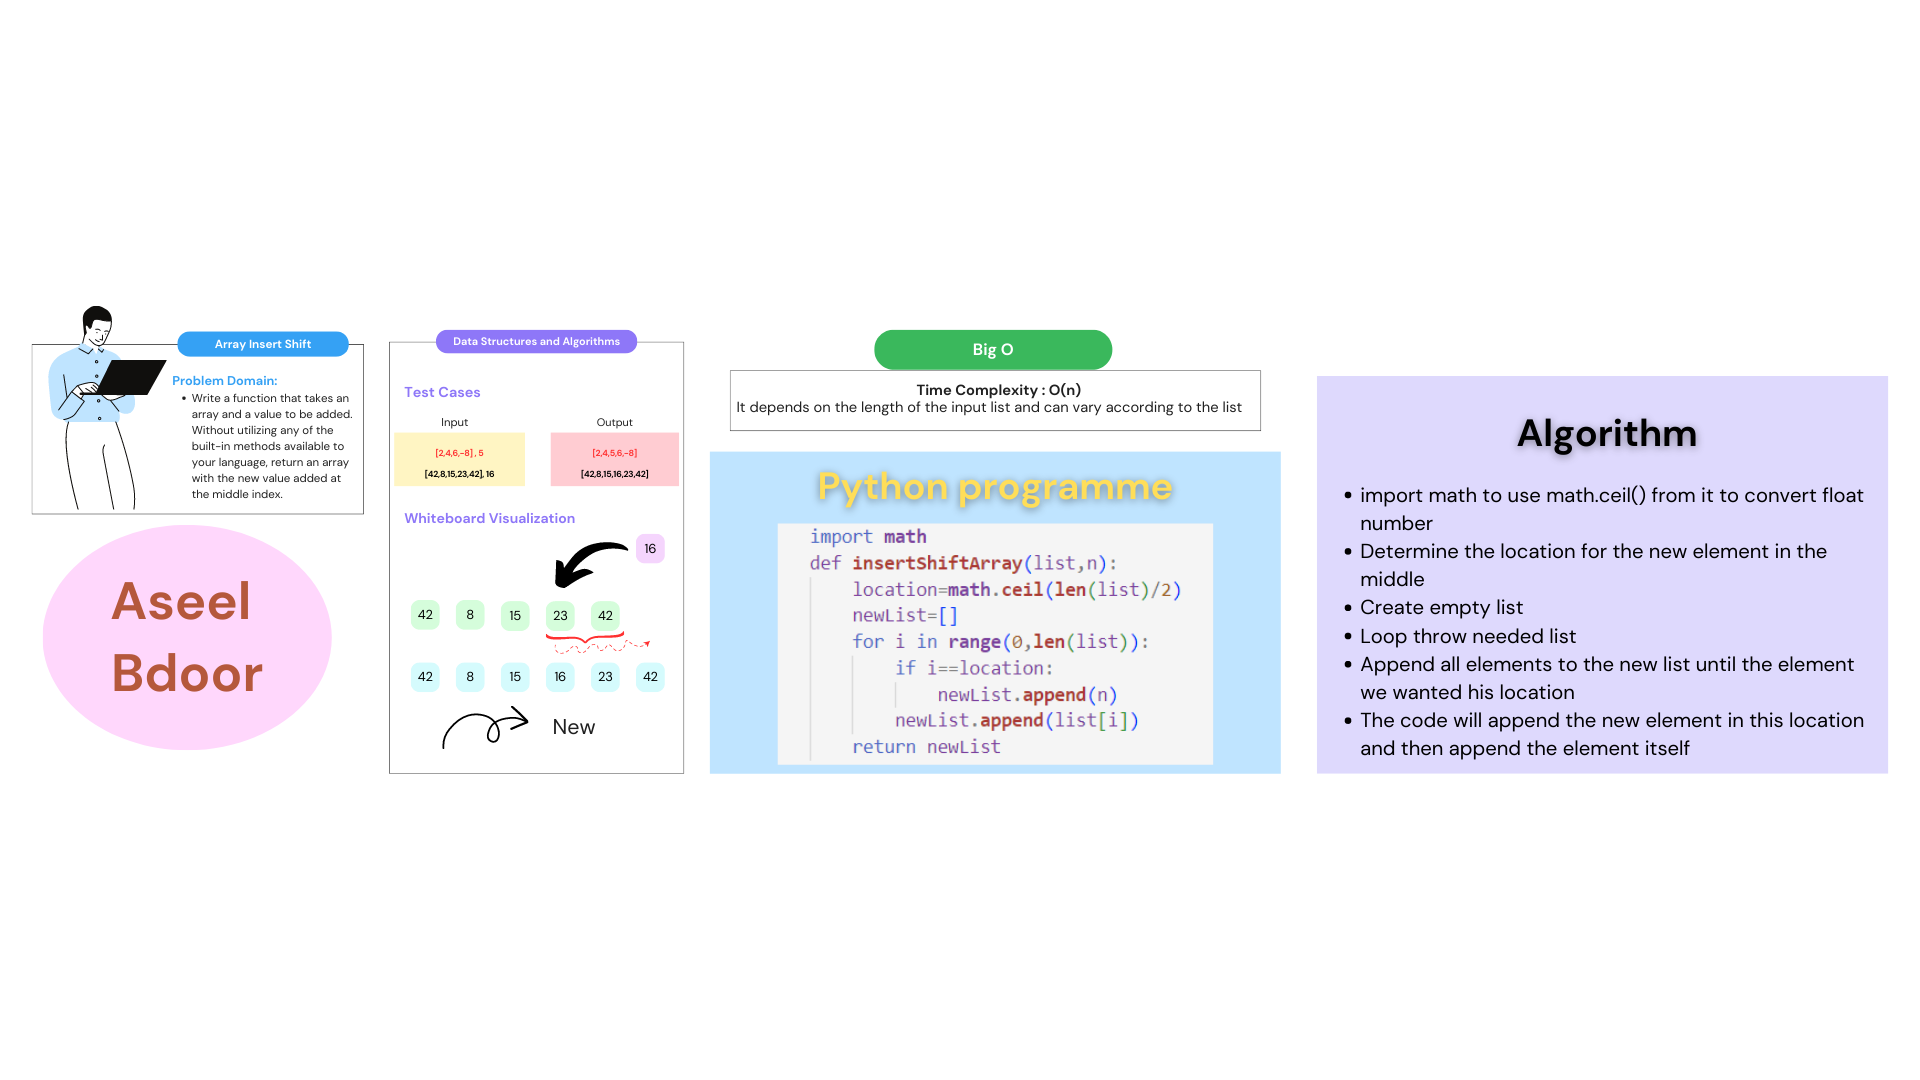
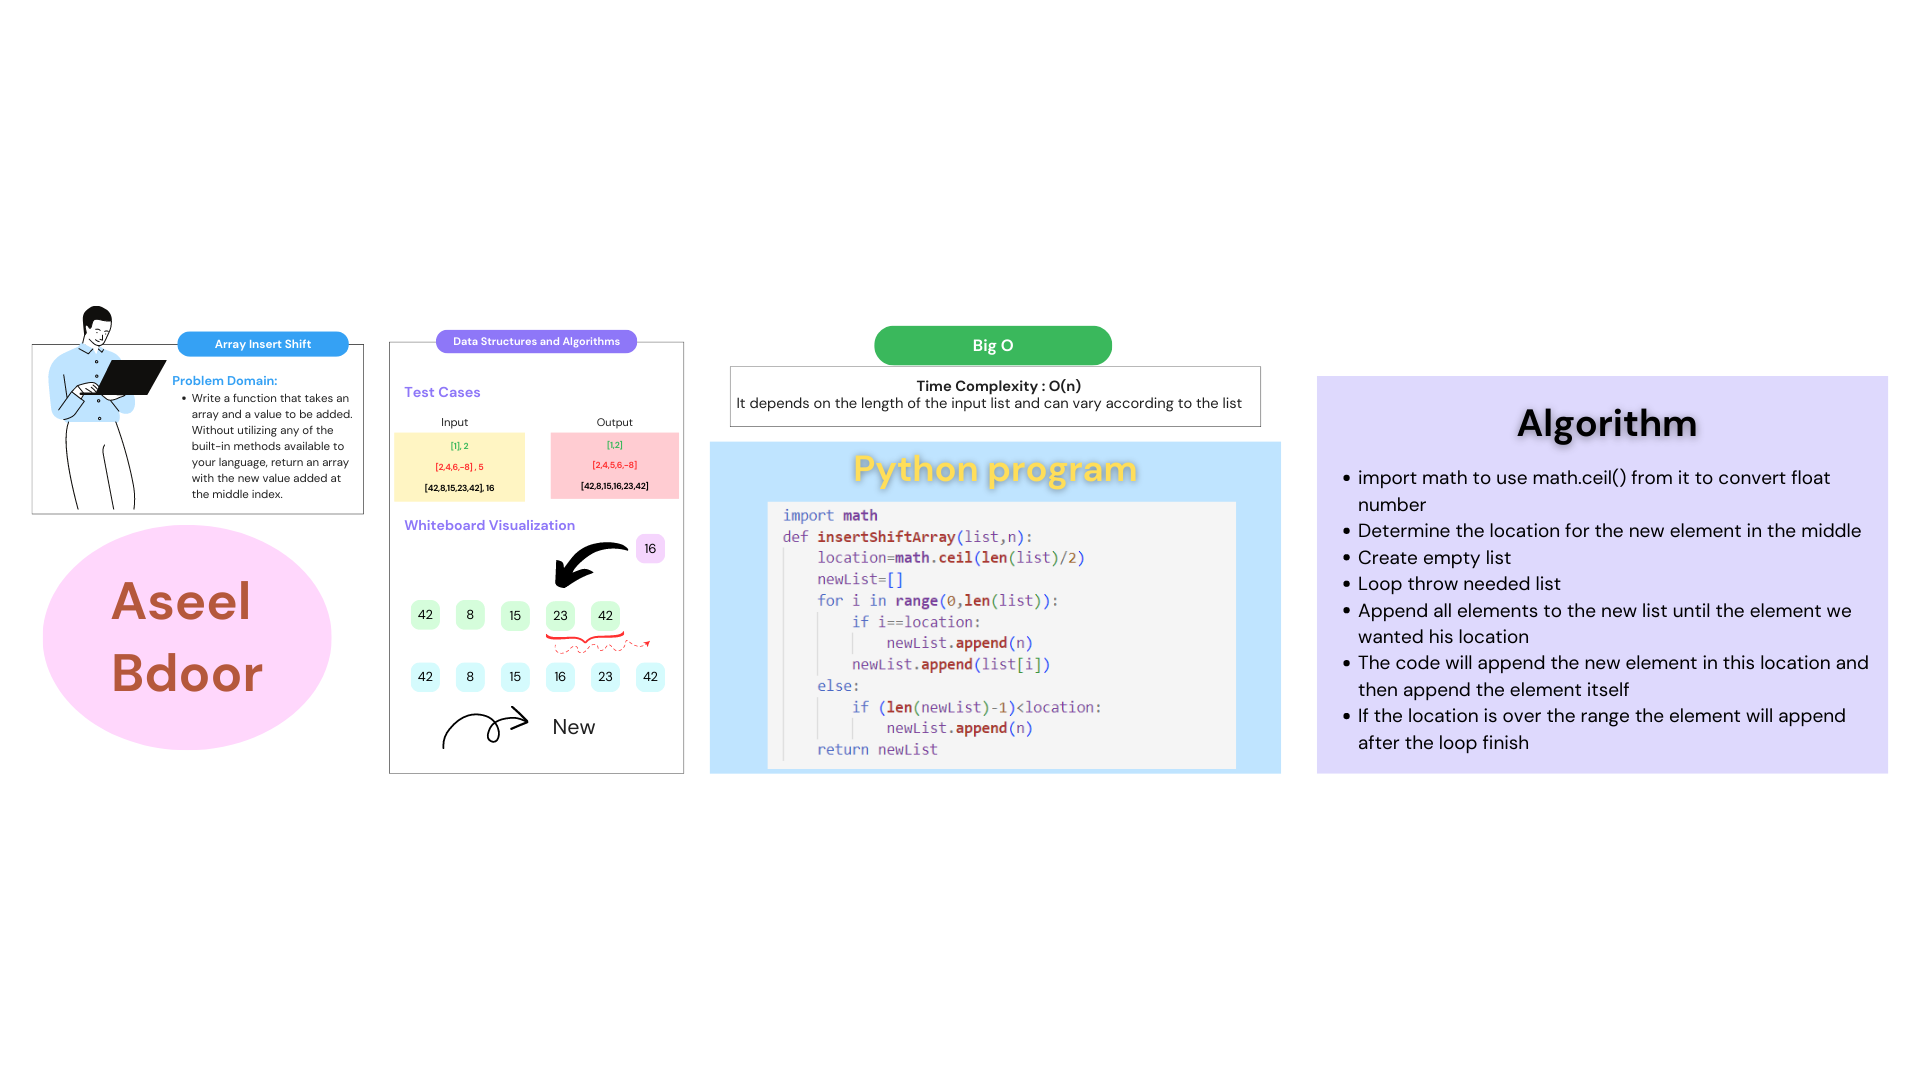
update

Changed region(s): [[0.375, 0.275, 0.6875, 0.7333], [0.6875, 0.3667, 0.9688, 0.7028], [0.1875, 0.3972, 0.3438, 0.4889]]

diff --git a/python/array_insert_shift/array_insert_shift.py b/python/array_insert_shift/array_insert_shift.py
@@ -1,3 +1,4 @@
+
 import math
 def insertShiftArray(list,n):
     location=math.ceil(len(list)/2)
@@ -6,9 +7,13 @@ def insertShiftArray(list,n):
         if i==location:
             newList.append(n)
         newList.append(list[i])
+    else:
+        if (len(newList)-1)<location:
+            newList.append(n)
     return newList
 
 #main
 list1=[2,4,6,-8]
 list2=[42,8,15,23,42]
-print(insertShiftArray(list2,16))
+list3=[1]
+print(insertShiftArray(list3,2))

diff --git a/python/removes/remove.py b/python/removes/remove.py
@@ -12,4 +12,5 @@ def removes(list):
 #main
 list1=[2,4,6,-8]
 list2=[42,8,15,23,42]
-print(removes(list2))
+list3=[]
+print(removes(list1))

diff --git a/README.md b/README.md
@@ -1,9 +1,9 @@
 # data-structures-and-algorithms
 You can find in this repo multiple function created  with python to solve problem and whitebord to descripe the code
 
-##Contant
+## Contant
 | Syntax      | Description |    
 | :---        |    :----:   |          
 |Reverse Array|[Reverse Array](./python/reverse/reverse.md)|
-|Array Insert/Shift|[Array Insert/Shift](./python/array-insert-shift/array-insert-shift.md)|
+|Array Insert/Shift|[Array Insert/Shift](./python/array_insert_shift/array_insert_shift.md)|
 |Removes| [Removes](./python/removes/removes.md)|

diff --git a/python/removes/removes.md b/python/removes/removes.md
@@ -2,7 +2,7 @@
 Write a function that removes an element from the middle index and shifts other elements in the array to fill the new gap.
 
 ## Whiteboard Process
-No Whitebord
+![img](./Array%20Removes.png)
 
 ## Approach & Efficiency
 - Import math to use math.floor() from it to convert float number
